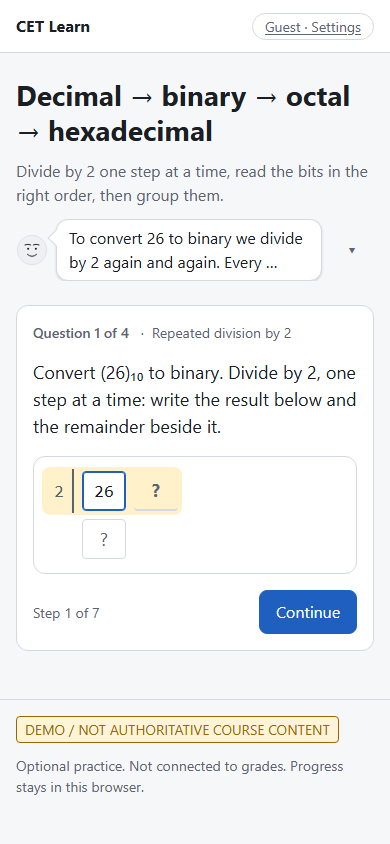
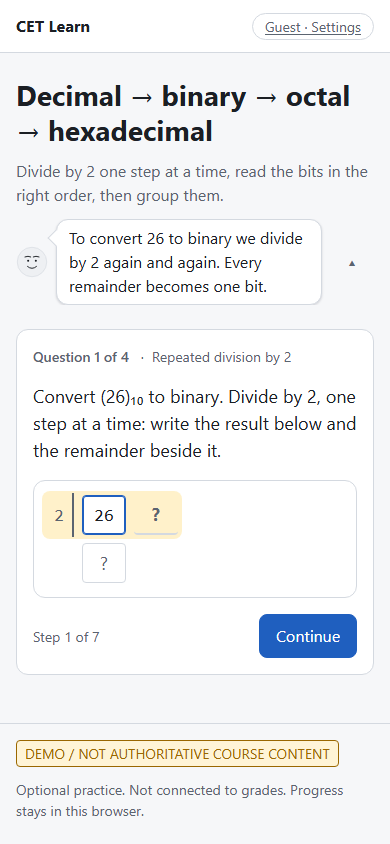
fix(tutor-ui): never clamp unread tutor text; collapse only when the message is stale

diff --git a/src/tutor/ui/TutorPanel.tsx b/src/tutor/ui/TutorPanel.tsx
@@ -1,6 +1,6 @@
 "use client";
 
-import { useId, useState } from "react";
+import { useEffect, useId, useRef, useState } from "react";
 import type { Expression } from "../engine/actions";
 import { TutorAvatar } from "./TutorAvatar";
 import { TutorBubble } from "./TutorBubble";
@@ -10,33 +10,90 @@ export interface TutorPanelProps {
   name: string;
   expression: Expression;
   message: string;
+  /** Changes whenever the tutor speaks, even if the text repeats. Defaults to the text itself. */
+  messageSeq?: number;
   typingSpeed?: number;
   onMessageDone?: () => void;
 }
 
+/** Keys that scroll the page. */
+const SCROLL_KEYS = new Set(["PageDown", "PageUp", "Home", "End"]);
+
 /**
  * Instructor beside the whiteboard: avatar plus one short bubble. Quiet when there is no message.
- * Below the `lg` breakpoint the panel is a compact strip (small avatar, message clamped to two
- * lines) so it never covers the stage; tap it, or use the toggle, to read the whole message.
- * Escape collapses it, and every new message starts collapsed.
+ *
+ * Below the `lg` breakpoint the panel is a strip above the stage. Unread text is never clamped: a
+ * new message shows in full (the strip grows, and scrolls inside itself beyond 40svh). It
+ * collapses to two lines only once the message is stale — the student's next input or click
+ * elsewhere, or a page scroll — and can be reopened by tapping it or with the toggle; Escape
+ * collapses it.
  */
-export function TutorPanel({ name, expression, message, typingSpeed, onMessageDone }: TutorPanelProps) {
+export function TutorPanel({ name, expression, message, messageSeq, typingSpeed, onMessageDone }: TutorPanelProps) {
   const bubbleId = useId();
-  // Expansion belongs to the message it was opened for; a new message resets it during render.
-  const [expandedFor, setExpandedFor] = useState<string | null>(null);
-  const expanded = expandedFor === message && message !== "";
-  const toggle = () => setExpandedFor(expanded ? null : message);
+  const panelRef = useRef<HTMLElement>(null);
+  const key = messageSeq ?? message;
+  // The collapsed/expanded choice belongs to one message; a new message starts open again.
+  const [choice, setChoice] = useState<{ key: string | number; open: boolean } | null>(null);
+  const open = message !== "" && (choice?.key === key ? choice.open : true);
+  const setOpen = (value: boolean) => setChoice({ key, open: value });
+
+  // A message becomes stale when the student moves on: typing, clicking elsewhere, or scrolling
+  // the page themselves (wheel, touch or keys; programmatic scrolling for focus does not count).
+  useEffect(() => {
+    if (!message) return;
+    const stale = () => setChoice((c) => (c?.key === key ? c : { key, open: false }));
+    const outside = (e: Event) => {
+      if (!panelRef.current?.contains(e.target as Node)) stale();
+    };
+    const onKey = (e: KeyboardEvent) => {
+      if (SCROLL_KEYS.has(e.key)) outside(e);
+    };
+    const events = ["click", "input", "wheel", "touchmove"] as const;
+    for (const type of events) document.addEventListener(type, outside, { passive: true });
+    document.addEventListener("keydown", onKey);
+    return () => {
+      for (const type of events) document.removeEventListener(type, outside);
+      document.removeEventListener("keydown", onKey);
+    };
+  }, [key, message]);
+
+  // scroll-padding-top follows the strip's live height, and a grown strip never covers the
+  // element the student is working in.
+  useEffect(() => {
+    const panel = panelRef.current;
+    if (!panel || typeof ResizeObserver === "undefined") return;
+    const root = document.documentElement;
+    const observer = new ResizeObserver(() => {
+      const box = panel.getBoundingClientRect();
+      root.style.setProperty("--tutor-live-h", `${Math.round(box.height)}px`);
+      const focused = document.activeElement;
+      if (!focused || focused === document.body || panel.contains(focused)) return;
+      if (getComputedStyle(panel.parentElement ?? panel).position !== "sticky") return;
+      const gap = focused.getBoundingClientRect().top - box.bottom - 8;
+      if (gap < 0) window.scrollBy(0, gap);
+    });
+    observer.observe(panel);
+    return () => {
+      observer.disconnect();
+      root.style.removeProperty("--tutor-live-h");
+    };
+  }, []);
 
   return (
     <aside
+      ref={panelRef}
       className={styles.panel}
       aria-label="Tutor"
-      data-expanded={expanded}
-      onClick={toggle}
+      data-expanded={open}
+      onClick={(e) => {
+        // A tap on the bubble while it is still typing only completes the text.
+        if ((e.target as Element).closest("[data-complete='false']")) return;
+        if (message) setOpen(!open);
+      }}
       onKeyDown={(e) => {
-        if (e.key === "Escape" && expanded) {
+        if (e.key === "Escape" && open) {
           e.stopPropagation();
-          setExpandedFor(null);
+          setOpen(false);
         }
       }}
     >
@@ -57,15 +114,15 @@ export function TutorPanel({ name, expression, message, typingSpeed, onMessageDo
         <button
           type="button"
           className={styles.toggle}
-          aria-expanded={expanded}
+          aria-expanded={open}
           aria-controls={bubbleId}
-          aria-label={expanded ? "Show less of the tutor message" : "Show the whole tutor message"}
+          aria-label={open ? "Show less of the tutor message" : "Show the whole tutor message"}
           onClick={(e) => {
             e.stopPropagation();
-            toggle();
+            setOpen(!open);
           }}
         >
-          <span aria-hidden="true">{expanded ? "▴" : "▾"}</span>
+          <span aria-hidden="true">{open ? "▴" : "▾"}</span>
         </button>
       )}
     </aside>

diff --git a/src/tutor/ui/TutorPanel.test.tsx b/src/tutor/ui/TutorPanel.test.tsx
@@ -1,38 +1,72 @@
 import { describe, expect, it } from "vitest";
-import { render, screen } from "@testing-library/react";
+import { act, fireEvent, render, screen } from "@testing-library/react";
 import userEvent from "@testing-library/user-event";
 import { TutorPanel } from "./TutorPanel";
 
 const panel = () => screen.getByRole("complementary", { name: "Tutor" });
+const show = (message: string, seq = 1, speed = 0) => (
+  <>
+    <TutorPanel name="Dr. M" expression="neutral" message={message} messageSeq={seq} typingSpeed={speed} />
+    <input aria-label="answer" />
+    <button type="button">Continue</button>
+  </>
+);
 
-describe("TutorPanel compact strip", () => {
-  it("starts collapsed and expands with the toggle, by keyboard", async () => {
-    render(<TutorPanel name="Dr. M" expression="neutral" message="A long message" typingSpeed={0} />);
-    const toggle = screen.getByRole("button", { name: "Show the whole tutor message" });
-    expect(panel()).toHaveAttribute("data-expanded", "false");
-    expect(toggle).toHaveAttribute("aria-expanded", "false");
-    toggle.focus();
-    await userEvent.setup().keyboard("{Enter}");
+describe("TutorPanel strip: unread text is never clamped", () => {
+  it("shows a new message in full, with a toggle that reports it as expanded", () => {
+    render(show("A long explanation step"));
     expect(panel()).toHaveAttribute("data-expanded", "true");
     expect(screen.getByRole("button", { name: "Show less of the tutor message" })).toHaveAttribute("aria-expanded", "true");
   });
 
-  it("expands on tap and collapses with Escape", async () => {
-    render(<TutorPanel name="Dr. M" expression="neutral" message="A long message" typingSpeed={0} />);
+  it("collapses once the message is stale: typing, a click elsewhere, or a page scroll", async () => {
     const user = userEvent.setup();
-    await user.click(panel());
+    const { unmount } = render(show("Read me"));
+    await user.type(screen.getByLabelText("answer"), "1");
+    expect(panel()).toHaveAttribute("data-expanded", "false");
+    unmount();
+
+    const second = render(show("Read me"));
+    await user.click(screen.getByRole("button", { name: "Continue" }));
+    expect(panel()).toHaveAttribute("data-expanded", "false");
+    second.unmount();
+
+    render(show("Read me"));
+    // programmatic scrolling (focus moving, layout settling) is not the student moving on
+    act(() => { fireEvent.scroll(window); });
     expect(panel()).toHaveAttribute("data-expanded", "true");
-    screen.getByRole("button", { name: "Show less of the tutor message" }).focus();
-    await user.keyboard("{Escape}");
+    act(() => { fireEvent.wheel(document.body); });
     expect(panel()).toHaveAttribute("data-expanded", "false");
   });
 
-  it("collapses again when a new message arrives", async () => {
-    const { rerender } = render(<TutorPanel name="Dr. M" expression="neutral" message="First" typingSpeed={0} />);
-    await userEvent.setup().click(panel());
-    expect(panel()).toHaveAttribute("data-expanded", "true");
-    rerender(<TutorPanel name="Dr. M" expression="neutral" message="Second" typingSpeed={0} />);
+  it("opens again for the next message, even when the text repeats", async () => {
+    const { rerender } = render(show("Not quite.", 1));
+    await userEvent.setup().type(screen.getByLabelText("answer"), "1");
     expect(panel()).toHaveAttribute("data-expanded", "false");
+    rerender(show("Not quite.", 2));
+    expect(panel()).toHaveAttribute("data-expanded", "true");
+  });
+
+  it("reopens a stale message by tap or toggle, and Escape collapses it", async () => {
+    const user = userEvent.setup();
+    render(show("Read me"));
+    await user.type(screen.getByLabelText("answer"), "1");
+    await user.click(panel());
+    expect(panel()).toHaveAttribute("data-expanded", "true");
+    const toggle = screen.getByRole("button", { name: "Show less of the tutor message" });
+    toggle.focus();
+    await user.keyboard("{Escape}");
+    expect(panel()).toHaveAttribute("data-expanded", "false");
+    await user.keyboard("{Enter}");
+    expect(panel()).toHaveAttribute("data-expanded", "true");
+  });
+
+  it("a tap that skips the typing does not also collapse the message", async () => {
+    render(show("A long message that is still being typed", 1, 1));
+    const bubble = document.querySelector("[data-complete='false']")!;
+    await userEvent.setup().click(bubble);
+    expect(document.querySelector("[data-complete='true']")).not.toBeNull();
+    expect(panel()).toHaveAttribute("data-expanded", "true");
   });
 
   it("has no toggle while the tutor is quiet", () => {

diff --git a/src/stage/runnerReducer.ts b/src/stage/runnerReducer.ts
@@ -28,6 +28,8 @@ export interface RunnerState {
   interactionKey: number;
   /** Incremented on every submit; the component records evidence when it changes. */
   attemptSeq: number;
+  /** Incremented each time the tutor speaks, so a repeated text still counts as a new message. */
+  messageSeq: number;
   /** Highest hint rung used on the current variant; summed into hintsUsedTotal on completion. */
   hintsUsedTotal: number;
   /** DOM effects to apply (FOCUS / HIGHLIGHT / PULSE / clears). */
@@ -79,6 +81,7 @@ export function initialRunnerState(activity: Activity): RunnerState {
     stepIndex: 0,
     interactionKey: 0,
     attemptSeq: 0,
+    messageSeq: 0,
     hintsUsedTotal: 0,
     effects: [],
     effectSeq: 0,
@@ -97,6 +100,7 @@ export function createRunnerReducer(activity: Activity) {
       switch (a.type) {
         case "SAY":
           next.message = a.text;
+          next.messageSeq += 1;
           break;
         case "CHANGE_EXPRESSION":
           next.expression = a.expression;

diff --git a/src/tutor/ui/TutorPanel.module.css b/src/tutor/ui/TutorPanel.module.css
@@ -18,13 +18,17 @@
   min-height: 48px;
 }
 
-/* Below lg: a compact strip capped at --tutor-strip-h; tap or use the toggle to expand. */
+/* Below lg: a strip above the stage. Open (unread or reopened) it shows the whole message;
+   collapsed (stale) it is capped at --tutor-strip-h with the text clamped to two lines. */
 @media (max-width: 1199px) {
   .panel {
     grid-template-columns: auto 1fr auto;
     gap: var(--space-2);
     align-items: center;
     cursor: pointer;
+    max-height: 40svh;
+    overflow-y: auto;
+    transition: max-height var(--dur-base) var(--ease);
   }
   .panel[data-expanded="false"] {
     max-height: var(--tutor-strip-h);

diff --git a/src/stage/ActivityRunner.tsx b/src/stage/ActivityRunner.tsx
@@ -115,7 +115,7 @@ export function ActivityRunner({ offeringId, topic, activity, backHref }: Activi
   return (
     <div className={styles.layout}>
       <div className={styles.tutor}>
-        <TutorPanel name={product.owner.shortName} expression={state.expression} message={state.message} typingSpeed={prefs.typingSpeed} />
+        <TutorPanel name={product.owner.shortName} expression={state.expression} message={state.message} messageSeq={state.messageSeq} typingSpeed={prefs.typingSpeed} />
       </div>
 
       <div className={styles.stage} ref={stageRef} data-testid="learning-stage" data-stage={stage}>

diff --git a/src/styles/tokens.css b/src/styles/tokens.css
@@ -28,7 +28,7 @@
   --topbar-h: 52px;
   --tutor-strip-h: 64px;
   /* scroll-padding-top, so focus and highlight scrolling never lands under sticky UI */
-  --sticky-offset: calc(var(--topbar-h) + var(--tutor-strip-h) + var(--space-2));
+  --sticky-offset: calc(var(--topbar-h) + var(--tutor-live-h, var(--tutor-strip-h)) + var(--space-2));
 
   --dur-fast: 120ms;
   --dur-base: 200ms;

diff --git a/docs/DESIGN_SYSTEM.md b/docs/DESIGN_SYSTEM.md
@@ -52,14 +52,14 @@ Evidence: `docs/design/review-2026-10-03/`. Each row is adopted by the issue tha
 | `--pending-opacity` | `0.45` | Circuit gates and wires not yet reached in a gate walk. |
 | `--focus-halo` | `var(--highlight-soft)` | Rounded halo behind the active gate or active cell group. |
 | `--sub-size` | `0.7em` | Base subscript in number notation, e.g. (26)<sub>10</sub>. |
-| `--topbar-h` | `52px` | Height of the sticky top bar; replaces literal `52px` / `68px` offsets. | Adopted in #54.
-| `--tutor-strip-h` | `64px` | Max height of the compact sticky tutor strip below `lg`. | Adopted in #54.
-| `--sticky-offset` | `calc(var(--topbar-h) + var(--tutor-strip-h))` | `scroll-padding-top` so focus/highlight scrolling never lands under sticky UI. | Adopted in #54.
+| `--topbar-h` | `52px` | Height of the sticky top bar; replaces literal `52px` / `68px` offsets. Adopted in #54. |
+| `--tutor-strip-h` | `64px` | Height cap of the *collapsed* (stale-message) tutor strip below `lg`. Adopted in #54. |
+| `--sticky-offset` | `calc(var(--topbar-h) + var(--tutor-live-h, var(--tutor-strip-h)) + var(--space-2))` | `scroll-padding-top` so focus/highlight scrolling never lands under sticky UI; `--tutor-live-h` is the strip's live height. Adopted in #54. |
 | `--content-wide` | `1400px` | Activity pages; top bar and footer use the same width so edges align. |
 
 ### Rules that come with them
 - **Accent means attention, not value.** Logic levels use `--signal-*` plus a printed 0/1; the active gate gets `--focus-halo`, a 3.5 px `--accent` outline and a `?` at its output. Gates after it use `--pending-opacity`.
-- **Sticky tutor below `lg`:** a one- or two-line strip (avatar 32 px, text clamped, tap to expand) capped at `--tutor-strip-h`. When the viewport is under 500 px tall the tutor is not sticky at all.
+- **Sticky tutor below `lg`: never clamp unread text.** A new tutor message (feedback, hint, Explain Slowly step) shows in full: the strip grows to fit, up to 40svh, and scrolls inside itself beyond that, never with an ellipsis. It collapses to the 2-line strip (`--tutor-strip-h`) only once the message is stale: the student's next input, Continue, or a page scroll. Height changes use `--dur-base` (instant under reduced motion). `scroll-padding-top` follows the strip's live height, not the collapsed cap, so focused inputs and Continue are never covered. When the viewport is under 500 px tall the tutor is not sticky at all.
 - **DivisionChain is a vertical ladder at all widths** (matches the Chapter 1 slide; #53). Each row has `2 |`, the number and its remainder; the quotient is typed into the next row down. The active row gets `--focus-halo`. In the read-off step an upward arrow beside the remainders runs from MSB (bottom) to LSB (top).
 - **Horizontal steppers on phones** (future bit rows): the active column is always scrolled into view, and a fade edge shows there is more content.
 - **Diagrams must fit at 390 px** down to 0.6× scale before horizontal scrolling is allowed; the output (Y) must always be visible.

diff --git a/src/tutor/ui/README.md b/src/tutor/ui/README.md
@@ -18,9 +18,14 @@ for (const a of actions) { if (a.type === "SAY") setMessage(a.text); else if (a.
 
 No audio, no voice, no forced animation.
 
-## Compact strip (below 1200 px)
-`TutorPanel` becomes a strip capped at `--tutor-strip-h`: 32 px avatar, message clamped to two
-lines. Tap the strip or use the toggle button (`aria-expanded`) to read the whole message; Escape
-collapses it; a new message starts collapsed. The stage makes the strip sticky under the top bar
-(`--topbar-h`), except when the viewport is under 500 px tall, where it scrolls away.
-`html { scroll-padding-top: var(--sticky-offset) }` keeps focus/highlight scrolling clear of it.
+## Strip below 1200 px: never clamp unread text
+`TutorPanel` is a strip above the stage (32 px avatar). A new message — feedback, hint or Explain
+Slowly step — always shows in full: the strip grows to fit, up to 40svh, then scrolls inside
+itself. It collapses to two lines (`--tutor-strip-h`) only once the message is stale: the student
+types, clicks elsewhere (Check, Continue) or scrolls the page themselves (wheel, touch, PageUp/Down;
+programmatic focus scrolling does not count). Tap the strip or use the toggle (`aria-expanded`) to
+reopen; Escape collapses. Pass `messageSeq` so a repeated text still counts as a new message.
+The stage makes the strip sticky under the top bar (`--topbar-h`), except when the viewport is
+under 500 px tall. The panel publishes its live height as `--tutor-live-h`, which
+`--sticky-offset` (`scroll-padding-top`) uses, and it scrolls the focused element clear if a
+grown strip would cover it.
